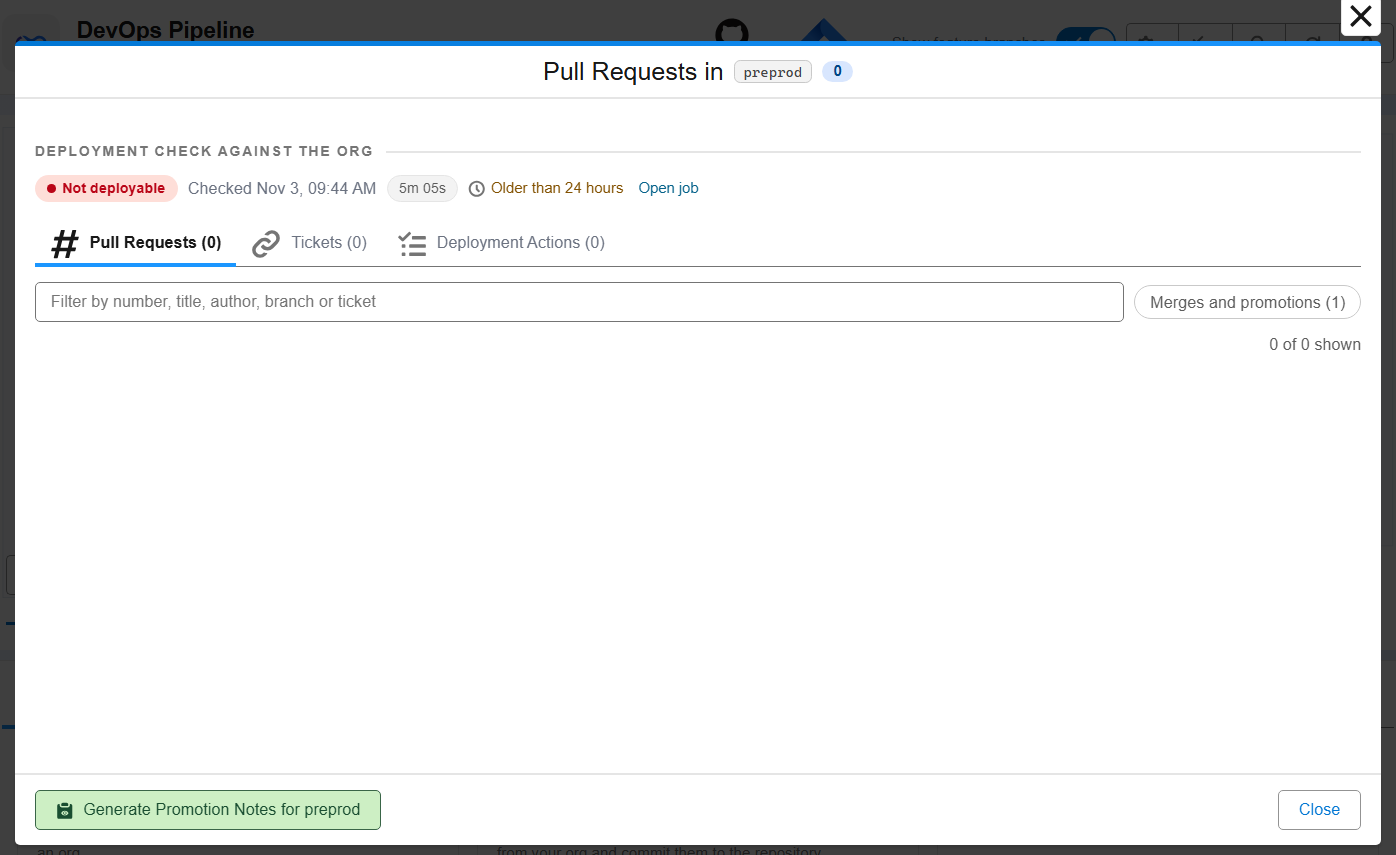
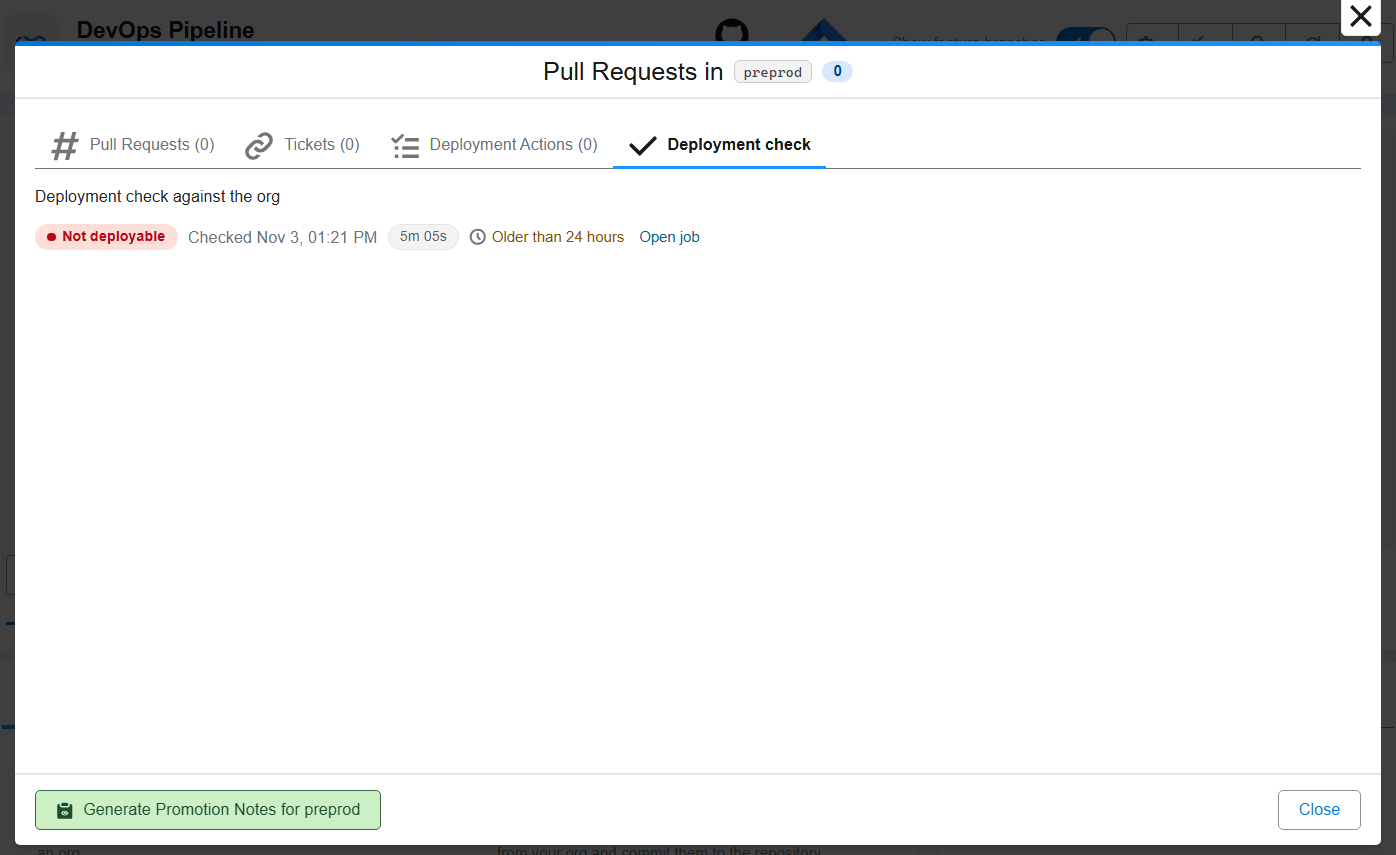
docs: major branch deployment check in the last tab of the branch window

Changed region(s): [[0.0, 0.152, 0.5852, 0.3649], [0.8009, 0.3345, 0.9549, 0.3649], [0.9241, 0.3953, 0.9857, 0.4257]]

diff --git a/docs/salesforce-devops-setup-major-branch-check.md b/docs/salesforce-devops-setup-major-branch-check.md
@@ -63,7 +63,7 @@ The [DevOps Pipeline](vscode-extension-devops-pipeline.md) then colors each majo
 | Dimmed, dashed | The last check is stale: older than `majorBranchDeploymentCheckValidityHours`, or a deployment ran after it |
 | Usual color    | No check found for this branch                                                                              |
 
-Click the branch to see the check in its window: status, date, duration, and a link to the job.
+Click the branch, then the last tab of its window, to see the check: status, date, duration, and a link to the job.
 
 ![The last deployment check in the window of a major branch](assets/images/major-branch-check-modal.png)
 
